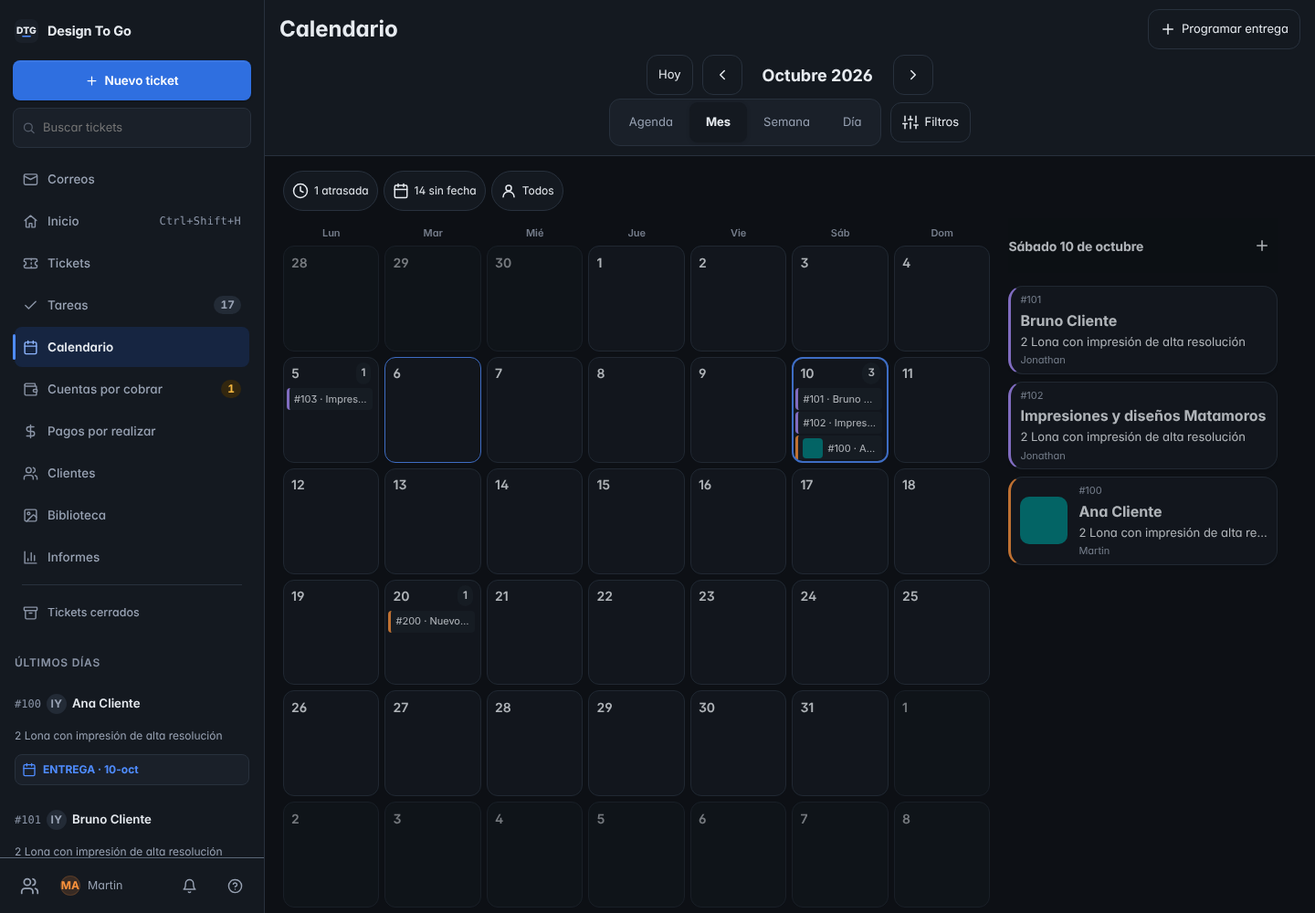
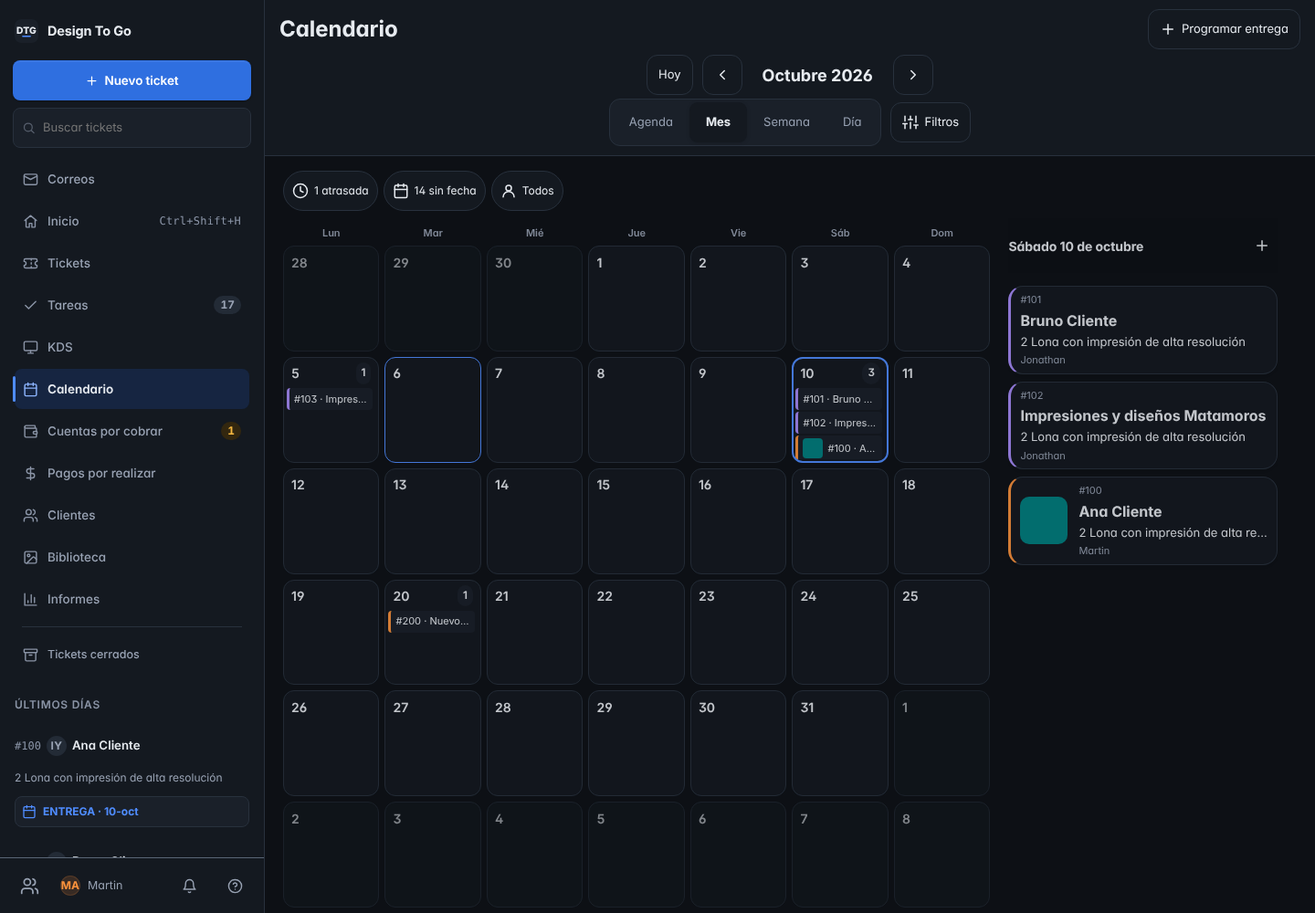
KDS: menu con botones de TV, vistas previas y orden por importancia (flechas/arrastre); docs TAREAS-V2
Claude-Session: https://claude.ai/code/session_0121pbVx9TbC1soBkzZ3mP1e

diff --git a/index.html b/index.html
@@ -4019,7 +4019,7 @@ body{ font-feature-settings:"cv11","ss01"; letter-spacing:-.003em; }
 .dc-row .work-label-add{display:none}.dc-row .work-labels{min-height:0!important;padding:0!important}.dc-row .work-label{font-size:10px;padding:2px 5px}.dc-row .work-label svg{width:12px;height:12px}
 .dc-calendar[data-dc-view="month"] .dc-mini-head{display:none}@media(min-width:881px) and (max-width:1199px){.dc-desktop-workspace{grid-template-columns:minmax(0,1fr)}.dc-selected-day{max-height:none}}
 
-.ws-sidebar-date,.ws-sidebar-owner,.ws-sidebar-photo{display:flex;align-items:center;gap:7px;margin-top:8px;font-size:12px;font-weight:700;color:var(--text)}.ws-sidebar-date{padding:7px;border:1px solid var(--border);border-radius:8px;color:var(--accent);background:var(--surface-2)}.ws-sidebar-date.missing{color:#f6b94b;border-color:#f6b94b66;background:#f6b94b12;font-size:10px;letter-spacing:.025em}.ws-sidebar-date svg{flex-shrink:0;width:16px;height:16px}.ws-sidebar-photo img{width:64px;height:48px;object-fit:cover;border-radius:7px}.ws-sidebar-owner{color:var(--resp-color,var(--text))}.ws-board-options{display:flex;justify-content:flex-end;padding:4px 20px}.ws-board-settings{margin:6px 20px;padding:14px;border:1px solid var(--border);border-radius:14px;background:var(--surface)}.ws-board-settings h2{font-size:16px;margin:0}.ws-board-settings p{font-size:12px;color:var(--text-muted)}.ws-board-setting-row{display:flex;align-items:center;gap:6px;border-top:1px solid var(--border);padding:6px 0}.ws-board-setting-row strong{flex:1;min-width:0;overflow:hidden;text-overflow:ellipsis}.ws-board-setting-row button,.ws-collapse{min-width:44px;min-height:44px}.ws-collapse{position:absolute;right:4px;top:2px;border:0;background:transparent;color:var(--text-muted);border-radius:8px;cursor:pointer}.kanban-column{position:relative}.kanban-column-header{padding-right:46px!important}.kanban-column.ws-collapsed{flex:0 0 72px!important;width:72px!important;min-width:72px!important;overflow:hidden}.ws-collapsed .kanban-column-cards{display:none}.ws-collapsed .kanban-column-header{min-height:210px;display:flex!important;flex-direction:column;padding:48px 6px 10px!important;gap:12px}.ws-collapsed .kanban-column-label{writing-mode:vertical-rl;max-height:150px;white-space:nowrap}.ws-collapsed .kanban-column-draghandle{display:none}.ws-task-focus{margin:8px 10px;padding:10px;border:1px solid color-mix(in srgb,var(--resp-color,var(--accent)) 55%,var(--border));border-radius:12px;background:color-mix(in srgb,var(--accent) 9%,var(--surface))}.ws-task-title{display:flex;gap:6px;align-items:center;font-size:12px;font-weight:800;margin-bottom:6px}.ws-task-title svg{width:16px;height:16px}.ws-task-focus .work-kanban-tasks{border:0;margin:0;padding:0}.ws-task-focus .work-kanban-task>button:last-child{font-size:14px;font-weight:700}.ws-task-focus .work-kanban-task>button:first-child{background:var(--surface-2);border:1px solid var(--border);border-radius:50%}.ws-plan{margin:8px 10px;padding:10px;border:2px solid color-mix(in srgb,var(--accent) 70%,var(--border));border-radius:12px;background:color-mix(in srgb,var(--accent) 12%,var(--surface))}.ws-plan-title{display:flex;align-items:center;gap:6px;font-size:11px;font-weight:900;letter-spacing:.08em;margin-bottom:6px}.ws-plan-title svg{width:16px;height:16px}.ws-plan-title b{margin-left:auto;background:var(--accent);color:#fff;border-radius:99px;padding:1px 8px}.ws-plan-row{display:flex;align-items:center;gap:6px;padding:4px 0;min-height:44px}.ws-plan-row.later{opacity:.55}.ws-plan-row.dragging{opacity:.4}.ws-plan-row.over{outline:2px dashed var(--accent);border-radius:8px}.ws-plan-step{flex:0 0 28px;height:28px;border-radius:50%;background:var(--accent);color:#fff;font-weight:900;font-size:15px;display:grid;place-items:center}.ws-plan-dot{flex:0 0 12px;width:12px;height:12px;margin:0 8px;border-radius:50%;background:var(--accent)}.ws-plan-name{flex:1;min-width:0;text-align:left;background:none;border:0;color:var(--text);cursor:pointer;padding:4px}.ws-plan-name strong{display:block;font-size:15px;font-weight:800;white-space:normal}.ws-plan-name small{color:var(--text-muted);font-size:11px}.ws-plan-check,.ws-plan-next,.ws-plan-link{min-width:36px;min-height:36px}.ws-plan-later-label{font-size:10px;font-weight:800;letter-spacing:.08em;color:var(--text-muted);margin:6px 0 0}.ws-plan-free{display:none;margin-top:6px;padding:6px;border:1px dashed var(--border);border-radius:8px;font-size:11px;color:var(--text-muted);text-align:center}.ws-plan:has(.dragging) .ws-plan-free{display:block}.ws-plan-free.over{border-color:var(--accent);color:var(--accent)}.ws-plan-empty{border-color:#ef4444;background:#ef444418}.ws-plan-alert{display:flex;align-items:center;gap:8px;width:100%;min-height:44px;background:none;border:0;color:#ef4444;cursor:pointer;text-align:left}.ws-plan-alert strong{display:block;font-size:14px;font-weight:900}.ws-plan-alert small{font-size:11px}.ws-plan-row.pay{background:#f59e0b22;border-radius:8px;padding-left:6px;outline:2px solid #f59e0b}.ws-pay-wait{color:#b45309;background:#fde68a;border-radius:6px;padding:2px 6px;font-size:11px;letter-spacing:.03em}.ws-pay-total{font-size:20px;font-weight:900;color:var(--text)}.ws-pay-to{font-size:14px;font-weight:900;color:#b45309}.v2-after{display:flex;align-items:center;gap:8px;padding:10px;border:1px solid var(--border);border-radius:10px;font-size:13px}.v2-after input{width:22px;height:22px}.pay-summary{display:grid;grid-template-columns:repeat(3,1fr);gap:8px;margin:8px 20px}.pay-summary>div{padding:12px;border:1px solid var(--border);border-radius:12px;background:var(--surface);display:flex;flex-direction:column}.pay-summary b{font-size:24px}.pay-summary span{font-size:11px;color:var(--text-muted)}.pay-summary .warn{border-color:#f59e0b;background:#f59e0b18}.pay-head-actions{display:flex;gap:8px;flex-wrap:wrap}.pay-list{padding:8px 20px 80px}.pay-h{font-size:12px;letter-spacing:.1em;margin:16px 0 6px;color:var(--text-muted)}.pay-h.urgent{color:#ef4444}.pay-card{border:2px solid var(--border);border-radius:14px;padding:14px;margin:8px 0;background:var(--surface)}.pay-card.noamt{border-color:#f59e0b;background:#f59e0b14}.pay-card.late{border-color:#ef4444}.pay-card.urgent{border-color:#ef4444;background:#ef444418;box-shadow:0 0 0 3px #ef444433}.pay-card.paid{opacity:.6;border-color:#22c55e}.pay-top{display:flex;justify-content:space-between;gap:12px;flex-wrap:wrap}.pay-kind{font-size:10px;font-weight:800;letter-spacing:.08em;color:var(--text-muted)}.pay-who h3{margin:2px 0;font-size:22px;font-weight:900}.pay-money{display:flex;flex-direction:column;align-items:flex-end;gap:4px}.pay-total{font-size:30px;font-weight:900}.pay-cd{font-variant-numeric:tabular-nums;font-weight:900;font-size:15px;padding:3px 8px;border-radius:8px;background:var(--surface-2)}.pay-cd.warn{background:#f59e0b;color:#000}.pay-cd.danger{background:#ef4444;color:#fff;animation:payblink 1s infinite}.pay-cd.closed{background:#7f1d1d;color:#fff}.pay-late,.pay-urg{font-size:11px;font-weight:900;color:#fff;background:#ef4444;border-radius:6px;padding:2px 8px}.pay-done{font-size:11px;font-weight:900;color:#fff;background:#22c55e;border-radius:6px;padding:2px 8px}.pay-ticket{background:none;border:0;color:var(--accent);font-weight:700;cursor:pointer;padding:6px 0;text-align:left}.pay-acct{display:flex;flex-wrap:wrap;gap:12px;margin:8px 0;padding:10px;border-radius:10px;background:var(--surface-2);font-size:14px;font-weight:700}.pay-acct small{display:block;font-size:10px;color:var(--text-muted);font-weight:600}.pay-acct-empty{font-weight:500;color:var(--text-muted)}.pay-copy,.pay-link{border:0;background:none;color:var(--accent);font-weight:800;cursor:pointer;font-size:12px}.pay-actions{display:flex;gap:8px;flex-wrap:wrap;margin-top:10px}.pay-paid{min-height:48px;font-size:16px;font-weight:900;background:#22c55e!important;border-color:#22c55e!important;color:#000!important}.pay-amt-edit{display:flex;gap:8px;flex-wrap:wrap;margin:8px 0}.pay-amt-edit input{flex:1;min-width:140px;padding:10px;font-size:18px;border-radius:10px;border:1px solid var(--border);background:var(--surface-2);color:var(--text)}.pay-form{margin:8px 20px;padding:14px;border:1px solid var(--border);border-radius:14px;background:var(--surface);display:grid;gap:10px}.pay-form label{display:grid;gap:4px;font-size:12px;font-weight:700}.pay-fichas{display:grid;gap:8px}.pay-ficha{display:flex;justify-content:space-between;align-items:center;gap:8px;padding:10px;border:1px solid var(--border);border-radius:12px;background:var(--surface)}.pay-ficha small{display:block;color:var(--text-muted);font-size:11px}#pay-urgent-bar{position:fixed;top:0;left:0;right:0;height:40px;z-index:3000;display:flex;align-items:center;justify-content:center;gap:24px;background:#b91c1c;color:#fff;font-size:14px;cursor:pointer;overflow:hidden;white-space:nowrap}#pay-urgent-bar .pay-bar-cd{font-variant-numeric:tabular-nums;font-weight:900;background:#000;border-radius:6px;padding:1px 8px}body.has-pay-bar .app{height:calc(100dvh - 40px);margin-top:40px}@keyframes payblink{50%{opacity:.55}}@media(max-width:880px){.pay-summary,.pay-list,.pay-form{margin-left:10px;margin-right:10px}.pay-list{padding:8px 10px 80px}.pay-total{font-size:26px}#pay-urgent-bar{font-size:12px;gap:10px}}.cob-aging{display:block;margin:0 20px 8px}.cob-summary{grid-template-columns:repeat(4,1fr)}.cob-summary .bad{border-color:#ef4444;background:#ef444418}.cob-tabs{padding:0 20px;margin:8px 0}.cob-card{border:2px solid var(--border);border-radius:14px;padding:14px;margin:10px 0;background:var(--surface)}.cob-card.over{border-color:#ef4444;background:#ef444414}.cob-top{display:flex;justify-content:space-between;gap:12px;flex-wrap:wrap}.cob-top h3{margin:0;font-size:20px;font-weight:900}.cob-top small{color:var(--text-muted);font-size:12px}.cob-money{display:flex;flex-direction:column;align-items:flex-end;gap:4px}.cob-money b{font-size:28px;font-weight:900}.cob-flag{font-size:11px;font-weight:900;border-radius:6px;padding:2px 8px;color:#fff}.cob-flag.red{background:#ef4444}.cob-flag.amber{background:#f59e0b;color:#000}.cob-flag.green{background:#22c55e;color:#000}.cob-tickets{margin:8px 0;display:grid;gap:4px}.cob-t{display:grid;grid-template-columns:auto 1fr auto auto auto;gap:10px;align-items:center;padding:6px 0;border-top:1px solid var(--border);font-size:13px}.cob-t-last{color:var(--text-muted);font-size:11px;max-width:220px;overflow:hidden;text-overflow:ellipsis;white-space:nowrap}.cob-actions{display:flex;gap:8px;flex-wrap:wrap}.cob-unk{margin:8px 20px}#cxc-scroll .cob-card,#cxc-scroll .section-title{margin-left:0}@media(max-width:880px){.cob-summary{grid-template-columns:repeat(2,1fr)}.cob-tabs{padding:0 10px}.cob-t{grid-template-columns:auto 1fr auto}.cob-t-last{display:none}}.ws-connection-dot{position:fixed!important;bottom:12px!important;right:12px!important;left:auto!important;top:auto!important;padding:0!important;width:28px;height:28px;background:transparent!important;border:0!important;box-shadow:none!important;z-index:1000}.ws-connection-dot button{display:grid;place-items:center;width:28px;height:28px;border:0;background:transparent;border-radius:50%;cursor:pointer}.ws-connection-dot .rt-badge-dot{width:8px;height:8px;background:#ef4444;box-shadow:0 0 0 3px #ef444420}.ws-gantt{padding:16px 20px;min-width:0}.ws-gantt-toolbar{display:flex;align-items:center;gap:12px;flex-wrap:wrap}.ws-gantt-toolbar h2{margin:0 auto 0 0;font-size:20px}.ws-gantt-toolbar label{font-size:12px;display:flex;align-items:center;gap:6px}.ws-gantt-toolbar select{min-height:44px;max-width:100%;background:var(--surface);border:1px solid var(--border);border-radius:10px;color:var(--text);padding:8px}.ws-gantt-stats{display:flex;flex-wrap:wrap;gap:8px;margin:12px 0}.ws-gantt-stats>span{padding:10px;border:1px solid var(--border);border-radius:10px;font-size:12px;background:var(--surface)}.ws-gantt-stats strong{font-size:16px;color:var(--accent);margin-right:4px}.ws-gantt-axis{display:grid;grid-template-columns:250px minmax(0,1fr);padding:8px 0;font-size:10px;color:var(--text-muted);position:sticky;top:0;background:var(--bg);z-index:2}.ws-gantt-axis>div{display:flex;justify-content:space-between;gap:4px}.ws-gantt-row{display:grid;grid-template-columns:250px minmax(0,1fr);gap:8px;width:100%;min-height:72px;border:0;border-bottom:1px solid var(--border);color:var(--text);background:transparent;text-align:left;padding:9px 0;cursor:pointer;align-items:center}.ws-gantt-label{display:flex;flex-direction:column;gap:3px;min-width:0}.ws-gantt-label strong{white-space:nowrap;overflow:hidden;text-overflow:ellipsis;font-size:13px}.ws-gantt-label small{font-size:11px;color:var(--text-muted)}.ws-gantt-track{position:relative;display:block;height:36px;background:repeating-linear-gradient(to right,var(--border) 0,var(--border) 1px,transparent 1px,transparent 25%);border-bottom:1px solid var(--border)}.ws-gantt-bar{position:absolute;top:8px;height:20px;border-radius:5px;min-width:4px;max-width:100%;background:var(--resp-color,var(--accent))}.ws-gantt-bar.active{border:1px dashed var(--text);opacity:.8}.ws-gantt-bar.cancelled{background:var(--text-muted);opacity:.35}.ws-gantt-promise{position:absolute;top:2px;height:32px;width:2px;background:#f6b94b}.ws-gantt-row:hover{background:var(--surface-2)}
+.ws-sidebar-date,.ws-sidebar-owner,.ws-sidebar-photo{display:flex;align-items:center;gap:7px;margin-top:8px;font-size:12px;font-weight:700;color:var(--text)}.ws-sidebar-date{padding:7px;border:1px solid var(--border);border-radius:8px;color:var(--accent);background:var(--surface-2)}.ws-sidebar-date.missing{color:#f6b94b;border-color:#f6b94b66;background:#f6b94b12;font-size:10px;letter-spacing:.025em}.ws-sidebar-date svg{flex-shrink:0;width:16px;height:16px}.ws-sidebar-photo img{width:64px;height:48px;object-fit:cover;border-radius:7px}.ws-sidebar-owner{color:var(--resp-color,var(--text))}.ws-board-options{display:flex;justify-content:flex-end;padding:4px 20px}.ws-board-settings{margin:6px 20px;padding:14px;border:1px solid var(--border);border-radius:14px;background:var(--surface)}.ws-board-settings h2{font-size:16px;margin:0}.ws-board-settings p{font-size:12px;color:var(--text-muted)}.ws-board-setting-row{display:flex;align-items:center;gap:6px;border-top:1px solid var(--border);padding:6px 0}.ws-board-setting-row strong{flex:1;min-width:0;overflow:hidden;text-overflow:ellipsis}.ws-board-setting-row button,.ws-collapse{min-width:44px;min-height:44px}.ws-collapse{position:absolute;right:4px;top:2px;border:0;background:transparent;color:var(--text-muted);border-radius:8px;cursor:pointer}.kanban-column{position:relative}.kanban-column-header{padding-right:46px!important}.kanban-column.ws-collapsed{flex:0 0 72px!important;width:72px!important;min-width:72px!important;overflow:hidden}.ws-collapsed .kanban-column-cards{display:none}.ws-collapsed .kanban-column-header{min-height:210px;display:flex!important;flex-direction:column;padding:48px 6px 10px!important;gap:12px}.ws-collapsed .kanban-column-label{writing-mode:vertical-rl;max-height:150px;white-space:nowrap}.ws-collapsed .kanban-column-draghandle{display:none}.ws-task-focus{margin:8px 10px;padding:10px;border:1px solid color-mix(in srgb,var(--resp-color,var(--accent)) 55%,var(--border));border-radius:12px;background:color-mix(in srgb,var(--accent) 9%,var(--surface))}.ws-task-title{display:flex;gap:6px;align-items:center;font-size:12px;font-weight:800;margin-bottom:6px}.ws-task-title svg{width:16px;height:16px}.ws-task-focus .work-kanban-tasks{border:0;margin:0;padding:0}.ws-task-focus .work-kanban-task>button:last-child{font-size:14px;font-weight:700}.ws-task-focus .work-kanban-task>button:first-child{background:var(--surface-2);border:1px solid var(--border);border-radius:50%}.ws-plan{margin:8px 10px;padding:10px;border:2px solid color-mix(in srgb,var(--accent) 70%,var(--border));border-radius:12px;background:color-mix(in srgb,var(--accent) 12%,var(--surface))}.ws-plan-title{display:flex;align-items:center;gap:6px;font-size:11px;font-weight:900;letter-spacing:.08em;margin-bottom:6px}.ws-plan-title svg{width:16px;height:16px}.ws-plan-title b{margin-left:auto;background:var(--accent);color:#fff;border-radius:99px;padding:1px 8px}.ws-plan-row{display:flex;align-items:center;gap:6px;padding:4px 0;min-height:44px}.ws-plan-row.later{opacity:.55}.ws-plan-row.dragging{opacity:.4}.ws-plan-row.over{outline:2px dashed var(--accent);border-radius:8px}.ws-plan-step{flex:0 0 28px;height:28px;border-radius:50%;background:var(--accent);color:#fff;font-weight:900;font-size:15px;display:grid;place-items:center}.ws-plan-dot{flex:0 0 12px;width:12px;height:12px;margin:0 8px;border-radius:50%;background:var(--accent)}.ws-plan-name{flex:1;min-width:0;text-align:left;background:none;border:0;color:var(--text);cursor:pointer;padding:4px}.ws-plan-name strong{display:block;font-size:15px;font-weight:800;white-space:normal}.ws-plan-name small{color:var(--text-muted);font-size:11px}.ws-plan-check,.ws-plan-next,.ws-plan-link{min-width:36px;min-height:36px}.ws-plan-later-label{font-size:10px;font-weight:800;letter-spacing:.08em;color:var(--text-muted);margin:6px 0 0}.ws-plan-free{display:none;margin-top:6px;padding:6px;border:1px dashed var(--border);border-radius:8px;font-size:11px;color:var(--text-muted);text-align:center}.ws-plan:has(.dragging) .ws-plan-free{display:block}.ws-plan-free.over{border-color:var(--accent);color:var(--accent)}.ws-plan-empty{border-color:#ef4444;background:#ef444418}.ws-plan-alert{display:flex;align-items:center;gap:8px;width:100%;min-height:44px;background:none;border:0;color:#ef4444;cursor:pointer;text-align:left}.ws-plan-alert strong{display:block;font-size:14px;font-weight:900}.ws-plan-alert small{font-size:11px}.ws-plan-row.pay{background:#f59e0b22;border-radius:8px;padding-left:6px;outline:2px solid #f59e0b}.ws-pay-wait{color:#7c2d12;background:#fde68a;border-radius:6px;padding:2px 6px;font-size:11px;letter-spacing:.03em}.ws-pay-total{font-size:20px;font-weight:900;color:var(--text)}.ws-pay-to{font-size:14px;font-weight:900;color:#fbbf24}.v2-after{display:flex;align-items:center;gap:8px;padding:10px;border:1px solid var(--border);border-radius:10px;font-size:13px}.v2-after input{width:22px;height:22px}.pay-summary{display:grid;grid-template-columns:repeat(3,1fr);gap:8px;margin:8px 20px}.pay-summary>div{padding:12px;border:1px solid var(--border);border-radius:12px;background:var(--surface);display:flex;flex-direction:column}.pay-summary b{font-size:24px}.pay-summary span{font-size:11px;color:var(--text-muted)}.pay-summary .warn{border-color:#f59e0b;background:#f59e0b18}.pay-head-actions{display:flex;gap:8px;flex-wrap:wrap}.pay-list{padding:8px 20px 80px}.pay-h{font-size:12px;letter-spacing:.1em;margin:16px 0 6px;color:var(--text-muted)}.pay-h.urgent{color:#ef4444}.pay-card{border:2px solid var(--border);border-radius:14px;padding:14px;margin:8px 0;background:var(--surface)}.pay-card.noamt{border-color:#f59e0b;background:#f59e0b14}.pay-card.late{border-color:#ef4444}.pay-card.urgent{border-color:#ef4444;background:#ef444418;box-shadow:0 0 0 3px #ef444433}.pay-card.paid{opacity:.6;border-color:#22c55e}.pay-top{display:flex;justify-content:space-between;gap:12px;flex-wrap:wrap}.pay-kind{font-size:10px;font-weight:800;letter-spacing:.08em;color:var(--text-muted)}.pay-who h3{margin:2px 0;font-size:22px;font-weight:900}.pay-money{display:flex;flex-direction:column;align-items:flex-end;gap:4px}.pay-total{font-size:30px;font-weight:900}.pay-cd{font-variant-numeric:tabular-nums;font-weight:900;font-size:15px;padding:3px 8px;border-radius:8px;background:var(--surface-2)}.pay-cd.warn{background:#f59e0b;color:#000}.pay-cd.danger{background:#ef4444;color:#fff;animation:payblink 1s infinite}.pay-cd.closed{background:#7f1d1d;color:#fff}.pay-late,.pay-urg{font-size:11px;font-weight:900;color:#fff;background:#ef4444;border-radius:6px;padding:2px 8px}.pay-done{font-size:11px;font-weight:900;color:#fff;background:#22c55e;border-radius:6px;padding:2px 8px}.pay-ticket{background:none;border:0;color:var(--accent);font-weight:700;cursor:pointer;padding:6px 0;text-align:left}.pay-acct{display:flex;flex-wrap:wrap;gap:12px;margin:8px 0;padding:10px;border-radius:10px;background:var(--surface-2);font-size:14px;font-weight:700}.pay-acct small{display:block;font-size:10px;color:var(--text-muted);font-weight:600}.pay-acct-empty{font-weight:500;color:var(--text-muted)}.pay-copy,.pay-link{border:0;background:none;color:var(--accent);font-weight:800;cursor:pointer;font-size:12px}.pay-actions{display:flex;gap:8px;flex-wrap:wrap;margin-top:10px}.pay-paid{min-height:48px;font-size:16px;font-weight:900;background:#22c55e!important;border-color:#22c55e!important;color:#000!important}.pay-amt-edit{display:flex;gap:8px;flex-wrap:wrap;margin:8px 0}.pay-amt-edit input{flex:1;min-width:140px;padding:10px;font-size:18px;border-radius:10px;border:1px solid var(--border);background:var(--surface-2);color:var(--text)}.pay-form{margin:8px 20px;padding:14px;border:1px solid var(--border);border-radius:14px;background:var(--surface);display:grid;gap:10px}.pay-form label{display:grid;gap:4px;font-size:12px;font-weight:700}.pay-fichas{display:grid;gap:8px}.pay-ficha{display:flex;justify-content:space-between;align-items:center;gap:8px;padding:10px;border:1px solid var(--border);border-radius:12px;background:var(--surface)}.pay-ficha small{display:block;color:var(--text-muted);font-size:11px}#pay-urgent-bar{position:fixed;top:0;left:0;right:0;height:40px;z-index:3000;display:flex;align-items:center;justify-content:center;gap:24px;background:#b91c1c;color:#fff;font-size:14px;cursor:pointer;overflow:hidden;white-space:nowrap}#pay-urgent-bar .pay-bar-cd{font-variant-numeric:tabular-nums;font-weight:900;background:#000;border-radius:6px;padding:1px 8px}body.has-pay-bar .app{height:calc(100dvh - 40px);margin-top:40px}@keyframes payblink{50%{opacity:.55}}@media(max-width:880px){.pay-summary,.pay-list,.pay-form{margin-left:10px;margin-right:10px}.pay-list{padding:8px 10px 80px}.pay-total{font-size:26px}#pay-urgent-bar{font-size:12px;gap:10px}}.cob-aging{display:block;margin:0 20px 8px}.cob-summary{grid-template-columns:repeat(4,1fr)}.cob-summary .bad{border-color:#ef4444;background:#ef444418}.cob-tabs{padding:0 20px;margin:8px 0}.cob-card{border:2px solid var(--border);border-radius:14px;padding:14px;margin:10px 0;background:var(--surface)}.cob-card.over{border-color:#ef4444;background:#ef444414}.cob-top{display:flex;justify-content:space-between;gap:12px;flex-wrap:wrap}.cob-top h3{margin:0;font-size:20px;font-weight:900}.cob-top small{color:var(--text-muted);font-size:12px}.cob-money{display:flex;flex-direction:column;align-items:flex-end;gap:4px}.cob-money b{font-size:28px;font-weight:900}.cob-flag{font-size:11px;font-weight:900;border-radius:6px;padding:2px 8px;color:#fff}.cob-flag.red{background:#ef4444}.cob-flag.amber{background:#f59e0b;color:#000}.cob-flag.green{background:#22c55e;color:#000}.cob-tickets{margin:8px 0;display:grid;gap:4px}.cob-t{display:grid;grid-template-columns:auto 1fr auto auto auto;gap:10px;align-items:center;padding:6px 0;border-top:1px solid var(--border);font-size:13px}.cob-t-last{color:var(--text-muted);font-size:11px;max-width:220px;overflow:hidden;text-overflow:ellipsis;white-space:nowrap}.cob-actions{display:flex;gap:8px;flex-wrap:wrap}.cob-unk{margin:8px 20px}#cxc-scroll .cob-card,#cxc-scroll .section-title{margin-left:0}@media(max-width:880px){.cob-summary{grid-template-columns:repeat(2,1fr)}.cob-tabs{padding:0 10px}.cob-t{grid-template-columns:auto 1fr auto}.cob-t-last{display:none}}.kds-menu-top{display:flex;gap:8px;flex-wrap:wrap;padding:0 20px 8px}.kds-menu{padding:8px 20px 80px;display:grid;gap:16px}.kds-menu-board{border:1px solid var(--border);border-radius:14px;padding:14px;background:var(--surface)}.kds-menu-head{display:flex;justify-content:space-between;align-items:center;gap:8px;flex-wrap:wrap}.kds-menu-head h2{margin:0;font-size:18px}.kds-menu-head small{color:var(--text-muted)}.kds-prev{display:grid;grid-template-columns:repeat(auto-fill,minmax(150px,1fr));gap:8px;margin:12px 0;padding:10px;border-radius:10px;background:#0b0d10}.kds-mini{position:relative;padding:8px 8px 8px 30px;border-radius:8px;background:#1b2027;color:#fff;border-left:5px solid #22c55e;display:grid;gap:2px;min-height:76px}.kds-mini b{font-size:13px;line-height:1.15}.kds-mini small{font-size:10px;opacity:.7}.kds-mini i{font-size:9px;font-style:normal;font-weight:900;letter-spacing:.06em;opacity:.9}.kds-mini-n{position:absolute;left:8px;top:8px;font-weight:900;font-size:14px;opacity:.7}.kds-mini.kds-p-urgente{border-left-color:#ef4444;background:#3a1618}.kds-mini.kds-p-pronto{border-left-color:#f59e0b}.kds-mini.kds-p-bloqueado,.kds-mini.kds-p-espera{border-left-color:#9ca3af}.kds-mini-empty{color:#9ca3af;font-size:12px;padding:10px}.kds-ord summary{cursor:pointer;font-weight:700;font-size:13px;padding:6px 0}.kds-ord-list{list-style:none;margin:6px 0 0;padding:0;display:grid;gap:4px}.kds-ord-row{display:flex;align-items:center;gap:8px;padding:8px;border:1px solid var(--border);border-radius:10px;background:var(--surface-2);cursor:grab}.kds-ord-row.over{outline:2px dashed var(--accent)}.kds-ord-row.dragging{opacity:.4}.kds-grip{color:var(--text-muted);letter-spacing:-3px}.kds-ord-n{font-weight:900;min-width:20px}.kds-ord-t{flex:1;min-width:0}.kds-ord-t b{display:block;font-size:13px}.kds-ord-t small{color:var(--text-muted);font-size:11px}@media(max-width:880px){.kds-menu,.kds-menu-top{padding-left:10px;padding-right:10px}}.ws-connection-dot{position:fixed!important;bottom:12px!important;right:12px!important;left:auto!important;top:auto!important;padding:0!important;width:28px;height:28px;background:transparent!important;border:0!important;box-shadow:none!important;z-index:1000}.ws-connection-dot button{display:grid;place-items:center;width:28px;height:28px;border:0;background:transparent;border-radius:50%;cursor:pointer}.ws-connection-dot .rt-badge-dot{width:8px;height:8px;background:#ef4444;box-shadow:0 0 0 3px #ef444420}.ws-gantt{padding:16px 20px;min-width:0}.ws-gantt-toolbar{display:flex;align-items:center;gap:12px;flex-wrap:wrap}.ws-gantt-toolbar h2{margin:0 auto 0 0;font-size:20px}.ws-gantt-toolbar label{font-size:12px;display:flex;align-items:center;gap:6px}.ws-gantt-toolbar select{min-height:44px;max-width:100%;background:var(--surface);border:1px solid var(--border);border-radius:10px;color:var(--text);padding:8px}.ws-gantt-stats{display:flex;flex-wrap:wrap;gap:8px;margin:12px 0}.ws-gantt-stats>span{padding:10px;border:1px solid var(--border);border-radius:10px;font-size:12px;background:var(--surface)}.ws-gantt-stats strong{font-size:16px;color:var(--accent);margin-right:4px}.ws-gantt-axis{display:grid;grid-template-columns:250px minmax(0,1fr);padding:8px 0;font-size:10px;color:var(--text-muted);position:sticky;top:0;background:var(--bg);z-index:2}.ws-gantt-axis>div{display:flex;justify-content:space-between;gap:4px}.ws-gantt-row{display:grid;grid-template-columns:250px minmax(0,1fr);gap:8px;width:100%;min-height:72px;border:0;border-bottom:1px solid var(--border);color:var(--text);background:transparent;text-align:left;padding:9px 0;cursor:pointer;align-items:center}.ws-gantt-label{display:flex;flex-direction:column;gap:3px;min-width:0}.ws-gantt-label strong{white-space:nowrap;overflow:hidden;text-overflow:ellipsis;font-size:13px}.ws-gantt-label small{font-size:11px;color:var(--text-muted)}.ws-gantt-track{position:relative;display:block;height:36px;background:repeating-linear-gradient(to right,var(--border) 0,var(--border) 1px,transparent 1px,transparent 25%);border-bottom:1px solid var(--border)}.ws-gantt-bar{position:absolute;top:8px;height:20px;border-radius:5px;min-width:4px;max-width:100%;background:var(--resp-color,var(--accent))}.ws-gantt-bar.active{border:1px dashed var(--text);opacity:.8}.ws-gantt-bar.cancelled{background:var(--text-muted);opacity:.35}.ws-gantt-promise{position:absolute;top:2px;height:32px;width:2px;background:#f6b94b}.ws-gantt-row:hover{background:var(--surface-2)}
 @media(max-width:880px){.ws-board-options{padding:4px 10px}.ws-board-settings{margin:6px 10px}.ws-board-setting-row{flex-wrap:wrap}.ws-board-setting-row strong{min-width:90px}.kanban-column:not(.ws-collapsed) .ws-collapse{top:2px;right:4px}.ws-gantt{padding:10px}.ws-gantt-toolbar{gap:6px}.ws-gantt-toolbar h2{width:100%;font-size:18px}.ws-gantt-toolbar label{flex-wrap:wrap;max-width:100%}.ws-gantt-toolbar select{font-size:16px}.ws-gantt-axis{grid-template-columns:minmax(0,1fr)}.ws-gantt-axis>span{display:none}.ws-gantt-row{grid-template-columns:minmax(0,1fr);gap:6px;padding:10px 0}.ws-gantt-label strong{font-size:14px}.ws-gantt-track{height:30px}.ws-gantt-bar{top:5px}.ws-task-focus{padding:8px;margin:6px}.ws-collapse{background:var(--surface)}}
 
 @media(min-width:881px){.wa-home .sidebar:not(.open){display:flex!important}.wa-home .sidebar.open{position:relative;inset:auto;width:290px;box-shadow:none}.wa-home .sidebar-backdrop{display:none!important}.tickets-explorer-scroll-kanban .kanban-board{align-items:flex-start}.kanban-column{height:auto!important}.kanban-column-cards{flex:1}.kanban-column-header{top:0;z-index:8}.ws-collapse{position:sticky;top:44px;align-self:flex-end;margin-top:-40px;margin-bottom:8px}}
@@ -5888,7 +5888,7 @@ async function fetchAllState(opts){
     var t = byTicket[row.ticket_id]; if(!t) return;
     t.accessProfileIds.push(row.profile_id);
   });
-  var settings = { queSigueOptions: [], teamNames: [], operacionTipos: [], opsProviders: [], payeeDetails: {}, docTerms: {} };
+  var settings = { queSigueOptions: [], teamNames: [], operacionTipos: [], opsProviders: [], payeeDetails: {}, kdsOrder: {}, docTerms: {} };
   settingsRows.forEach(function(row){
     if(row.key === "que_sigue_options") settings.queSigueOptions = row.values || [];
     if(row.key === "team_names") settings.teamNames = row.values || [];
@@ -5898,6 +5898,7 @@ async function fetchAllState(opts){
       if(parts.length===3 && name && DTGOps.providers[parts[1]]) settings.opsProviders.push({group:parts[1],id:parts[2],name:name});
     }
     if(row.key && row.key.indexOf('ops_payee_v1:')===0){ try{ settings.payeeDetails[row.key.slice(13)] = JSON.parse((row.values||[])[0]||'{}'); }catch(e){} }
+    if(row.key && row.key.indexOf('kds_order_v1:')===0){ settings.kdsOrder[row.key.slice(13)] = row.values || []; }
     if(row.key === "operacion_tipos") settings.operacionTipos = row.values || [];
     if(row.key && row.key.indexOf("doc_terms_") === 0) settings.docTerms[row.key.slice(10)] = row.values || [];
     if(row.key === "doc_quote_valid_days") settings.quoteValidDays = parseInt((row.values || [])[0], 10) || null;
@@ -27803,6 +27804,36 @@ document.addEventListener('click',async function(e){var b=e.target.closest&&e.ta
 /* Un entregado con saldo vive solo en Cobranza: sale del Kanban (salvo que se busque o se filtre "entregado"). */
 var cobFiltered=ticketsExplorerFiltered;
 ticketsExplorerFiltered=function(){var list=cobFiltered(),ui=UI.ticketsExplorer||{};if((UI.search||'').trim()||ui.estado==='entregado'||ui.estado==='cerrado')return list;return list.filter(function(t){if(ticketEstado(t)!=='entregado')return true;var f=ticketFinancials(t);return !(f.saldo==null||f.saldo>CXC_EPS);});};
+/* ===== Menú KDS: botones para abrir cada TV, vista previa de cada una y orden por importancia =====
+   El orden manual vive en app_settings (kds_order_v1:<tablero>, values = ids de tarea). Lo urgente y lo vencido siempre
+   va arriba; el resto sigue el orden que tú dejas; lo nuevo entra al final de lo ordenado. */
+UI.kdsMenu={drag:null};
+function kdsOrderOf(board){return ((STATE.meta&&STATE.meta.kdsOrder)||{})[board]||[];}
+function kdsRaw(key){if(key==='cxc')return kdsCxc();if(key==='pagos')return kdsPagos();var b=KDS_BOARDS.find(function(x){return x.key===key;});return kdsTasks(b?b.area:null);}
+function kdsApplyOrder(items,key){var order=kdsOrderOf(key);if(!order.length||key==='cxc')return items;var idx={};order.forEach(function(id,i){idx[id]=i;});
+ return items.map(function(it,i){return {it:it,i:i};}).sort(function(a,b){var ra=a.it.prio.rank===0?0:1,rb=b.it.prio.rank===0?0:1;if(ra!==rb)return ra-rb;var ia=a.it.id in idx?idx[a.it.id]:1e6+a.i,ib=b.it.id in idx?idx[b.it.id]:1e6+b.i;if(ia!==ib)return ia-ib;return a.i-b.i;}).map(function(x){return x.it;});}
+function kdsItemsForBoard(key){return kdsApplyOrder(kdsRaw(key),key);}
+kdsItems=function(){return kdsItemsForBoard(kdsBoard().key);};
+function kdsMiniCard(it,i){var v=kdsVista(it);return '<div class="kds-mini kds-p-'+it.prio.key+'"><span class="kds-mini-n">'+(i+1)+'</span><b>'+escapeHtml(v.accion)+'</b><small>'+escapeHtml(v.cliente)+' · #'+it.t.seq+'</small><i>'+escapeHtml(it.prio.label)+'</i></div>';}
+function kdsMenuCount(b,items){var saved=UI.kds.board;UI.kds.board=b.key;try{return kdsCuenta(items);}finally{UI.kds.board=saved;}}
+function kdsMenuBoard(b){var items=kdsItemsForBoard(b.key),canOrder=b.key!=='cxc',prev=items.slice(0,6).map(kdsMiniCard).join('')||'<div class="kds-mini-empty">'+escapeHtml(b.vacio)+'</div>';
+ var rows=canOrder?items.map(function(it,i){var v=kdsVista(it);return '<li class="kds-ord-row" draggable="true" data-kds-ord="'+escapeHtml(it.id)+'" data-board="'+b.key+'"><span class="kds-grip" aria-hidden="true">&#8942;&#8942;</span><span class="kds-ord-n">'+(i+1)+'</span><span class="kds-ord-t"><b>'+escapeHtml(v.accion)+'</b><small>'+escapeHtml(v.cliente)+' · #'+it.t.seq+(it.prio.rank===0?' · '+escapeHtml(it.prio.label)+' (siempre arriba)':'')+'</small></span><button type="button" class="icon-btn" data-kdsm="up" data-board="'+b.key+'" data-id="'+escapeHtml(it.id)+'" aria-label="Subir">&#9650;</button><button type="button" class="icon-btn" data-kdsm="down" data-board="'+b.key+'" data-id="'+escapeHtml(it.id)+'" aria-label="Bajar">&#9660;</button></li>';}).join(''):'';
+ return '<section class="kds-menu-board"><div class="kds-menu-head"><div><h2>TV de '+escapeHtml(b.label)+'</h2><small>'+escapeHtml(kdsMenuCount(b,items))+'</small></div><a class="btn btn-primary" href="?display='+b.key+'" target="_blank" rel="noopener">'+icon('monitor')+' Ver TV de '+escapeHtml(b.corto)+'</a></div><div class="kds-prev">'+prev+'</div>'+(canOrder&&items.length?'<details class="kds-ord"'+(UI.kdsMenu.open===b.key?' open':'')+'><summary data-kdsm-sum="'+b.key+'">Ordenar por importancia · arrastra o usa las flechas</summary><ol class="kds-ord-list">'+rows+'</ol></details>':'')+'</section>';}
+function renderKdsMenuView(){var order=['produccion','planeacion','pagos','cxc'];return '<div class="home-header"><div class="view-title">'+icon('monitor',{cls:'view-title-ic'})+'<h1>KDS · Pantallas del taller</h1></div></div><div class="kds-menu-top">'+order.map(function(k){var b=KDS_BOARDS.find(function(x){return x.key===k;});return '<a class="btn btn-ghost" href="?display='+k+'" target="_blank" rel="noopener">'+icon('monitor')+' Ver TV de '+escapeHtml(b.corto)+'</a>';}).join('')+'</div><div class="page-scroll kds-menu">'+order.map(function(k){return kdsMenuBoard(KDS_BOARDS.find(function(x){return x.key===k;}));}).join('')+'</div>';}
+function goToKds(){UI.selectedTicketId=null;UI.mainView='kds';UI.selectedClienteId=null;UI.composer=null;UI.sidebarOpen=false;UI.deepLinkNotFound=false;saveUi();render();}
+REAL_VIEWS.push('kds');
+var kdsMenuMain=renderMain;renderMain=function(){if(UI.mainView==='kds'&&!UI.selectedTicketId)return renderKdsMenuView();return kdsMenuMain();};
+NAV_ITEMS.splice(NAV_ITEMS.findIndex(function(n){return n.view==='operaciones';})+1,0,{view:'kds',action:'go-kds',icon:'monitor',label:'KDS'});
+async function kdsSaveOrder(board,ids){STATE.meta.kdsOrder=STATE.meta.kdsOrder||{};STATE.meta.kdsOrder[board]=ids;UI.kdsMenu.open=board;render();try{var r=await sb.from('app_settings').update({values:ids}).eq('key','kds_order_v1:'+board).select();if(r.error)throw r.error;if(!r.data||!r.data.length){r=await sb.from('app_settings').insert({key:'kds_order_v1:'+board,values:ids});if(r.error)throw r.error;}}catch(e){userError('Guardar orden de la TV',e);}}
+function kdsMenuMove(board,id,delta){var ids=kdsItemsForBoard(board).map(function(x){return x.id;}),i=ids.indexOf(id),j=i+delta;if(i<0||j<0||j>=ids.length)return;ids.splice(j,0,ids.splice(i,1)[0]);kdsSaveOrder(board,ids);}
+document.addEventListener('click',function(e){var b=e.target.closest&&e.target.closest('[data-kdsm],[data-action="go-kds"],[data-kdsm-sum]');if(!b)return;
+ if(b.matches('[data-action="go-kds"]')){e.preventDefault();e.stopImmediatePropagation();goToKds();return;}
+ if(b.hasAttribute('data-kdsm-sum')){UI.kdsMenu.open=b.getAttribute('data-kdsm-sum');return;}
+ e.preventDefault();e.stopImmediatePropagation();kdsMenuMove(b.dataset.board,b.dataset.id,b.dataset.kdsm==='up'?-1:1);},true);
+document.addEventListener('dragstart',function(e){var r=e.target.closest&&e.target.closest('[data-kds-ord]');if(!r)return;UI.kdsMenu.drag={board:r.dataset.board,id:r.dataset.kdsOrd};try{e.dataTransfer.setData('text/plain','kds:'+r.dataset.kdsOrd);e.dataTransfer.effectAllowed='move';}catch(x){}r.classList.add('dragging');},true);
+document.addEventListener('dragover',function(e){var d=UI.kdsMenu.drag,r=d&&e.target.closest&&e.target.closest('[data-kds-ord]');if(!r||r.dataset.board!==d.board)return;e.preventDefault();document.querySelectorAll('.kds-ord-row.over').forEach(function(n){n.classList.remove('over');});r.classList.add('over');},true);
+document.addEventListener('dragend',function(){UI.kdsMenu.drag=null;document.querySelectorAll('.kds-ord-row.over,.kds-ord-row.dragging').forEach(function(n){n.classList.remove('over','dragging');});});
+document.addEventListener('drop',function(e){var d=UI.kdsMenu.drag,r=d&&e.target.closest&&e.target.closest('[data-kds-ord]');if(!r||r.dataset.board!==d.board)return;e.preventDefault();UI.kdsMenu.drag=null;var target=r.dataset.kdsOrd;if(target===d.id)return;var ids=kdsItemsForBoard(d.board).map(function(x){return x.id;});ids.splice(ids.indexOf(d.id),1);ids.splice(ids.indexOf(target),0,d.id);kdsSaveOrder(d.board,ids);},true);
 var uxRow=workTaskRow;workTaskRow=function(t,x){var html=uxRow(t,x);return html.replace('<strong>','<strong>'+icon(uxTaskIcon(x.desc))).replace('</strong>','</strong>'+(uxTaskNote(x)?'<small>'+escapeHtml(uxTaskNote(x))+'</small>':''));};
 document.addEventListener('input',function(e){if(e.target.id==='ux-task-note'&&UI.operaciones.editor){var ed=UI.operaciones.editor;ed.draft=ed.draft||{};ed.draft.note=e.target.value;}});
 document.addEventListener('click',function(e){var pick=e.target.closest&&e.target.closest('[data-action="ops-ed-pick-ticket"]'),choice=e.target.closest&&e.target.closest('[data-ux-task]'),b=e.target.closest&&e.target.closest('[data-ux]');if(pick){e.preventDefault();e.stopImmediatePropagation();UI.uxTicketPreview=pick.dataset.ticket;var hover=document.getElementById('ux-ticket-hover');if(hover)hover.remove();renderKeepingLiveInputs();return;}if(choice){e.preventDefault();var select=document.getElementById('ops-f-desc');select.value=choice.dataset.uxTask;select.dispatchEvent(new Event('change',{bubbles:true}));document.querySelectorAll('[data-ux-task]').forEach(function(n){n.setAttribute('aria-pressed',n===choice);});return;}if(b){e.preventDefault();e.stopImmediatePropagation();if(b.dataset.ux==='preview-select'){UI.operaciones.editor.ticketId=b.dataset.ticket;}UI.uxTicketPreview=null;renderKeepingLiveInputs();}},true);

diff --git a/TAREAS-V2.md b/TAREAS-V2.md
@@ -1,12 +1,28 @@
-# Tareas v2
+# Tareas v2, Pagos, Cobranza y KDS
 
-- **Pasos en cadena o en paralelo:** `tareas.depends_on` (migración `20261006000001_tareas_depends_on.sql`). NULL = paralela (punto); con valor = va después (número 1·2·3). Sin ciclos.
-- **Kanban:** bloque TAREAS en cada tarjeta, `SIN TAREA` en rojo si no hay ninguna, botón ↳ (agregar siguiente), ⇅ (hacer paralela), arrastrar sobre otra (= después) o a "Soltar aquí = en paralelo".
-- **Catálogo único** (un solo selector agrupado): Cliente, Diseño, Compras y proveedores, Taller, Entrega. Se quitaron COBRAR, IMPRIMIR LONA, ENVIAR DTF/DTF UV/TABLOIDES, ORDENAR EN LINEA/A MONTERREY, COMPRAR MATERIAL. Las tareas ya creadas conservan su nombre.
-- **ORDENAR MATERIAL** pide vendedor (se paga antes) y crea `PAGAR Y ENVIAR COMPROBANTE` encadenada: "TOTAL AÚN NO DISPONIBLE" hasta capturar el total; luego total grande y empresa.
-- **ENVIAR TRABAJO CON PROVEEDOR** pide proveedor (se paga después) y crea `RECOGER` encadenada.
-- `CONSEGUIR ARCHIVOS DEL CLIENTE` → `CONFIRMAR LA CALIDAD (LETS ENHANCE)`; `ENVIAR DISENO` → `CONSEGUIR APROBACION`.
-- Vendedores y proveedores: listas en `ops-menu.js` (`vendor`, `provider`); OTRO (solo esa tarea) y AGREGAR NUEVO (se guarda en `app_settings`, `ops_provider_v1:<grupo>:<id>`).
-- Las tareas de pago no salen en las TV de Producción/Planeación; las bloqueadas tampoco.
-- Pendiente (fases del plan): Cobranza, menú/tabla Pagos por realizar (`payees`, `task_payments`, URGENTE), menú KDS.
-- Pruebas: `TASKS-PLAN-QA.cjs`, `TASKS-CATALOG-QA.cjs`.
+## Tareas
+- **Pasos en cadena o en paralelo:** `tareas.depends_on` (migración `20261006000001_tareas_depends_on.sql`). NULL = paralela (punto); con valor = va después (número 1·2·3). Sin ciclos. Botones ↳ (agregar siguiente), ⇅ (hacer paralela), arrastrar sobre otra (= después) o a "Soltar aquí = en paralelo", y la palomita "Va después de la anterior" dentro del editor.
+- **Kanban:** bloque TAREAS en cada tarjeta, `SIN TAREA` en rojo si no hay ninguna. Los entregados con saldo ya no salen en el Kanban (viven en Cobranza).
+- **Catálogo único** agrupado (Cliente, Diseño, Compras y proveedores, Taller, Entrega). Se quitaron COBRAR (de tickets), IMPRIMIR LONA, ENVIAR DTF/DTF UV/TABLOIDES, ORDENAR EN LINEA/A MONTERREY, COMPRAR MATERIAL. Las tareas ya creadas conservan su nombre. `/tarea` y `/produccion` abren el editor con la tarea del catálogo.
+- **Automáticas:** CONSEGUIR ARCHIVOS → CONFIRMAR LA CALIDAD (LETS ENHANCE); ENVIAR DISENO → CONSEGUIR APROBACION; ORDENAR MATERIAL (vendedor) → PAGAR Y ENVIAR COMPROBANTE en paralelo; ENVIAR TRABAJO CON PROVEEDOR → RECOGER → PAGAR Y ENVIAR COMPROBANTE.
+- Sin estados ni porcentajes en la TV (se quitó la tecla ESPERAR).
+
+## Pagos por realizar (sin tablas nuevas)
+- La tarea `PAGAR Y ENVIAR COMPROBANTE` guarda empresa, total (`amount`) y `urgent` en `action_path`.
+- Fichas de vendedores/proveedores (banco, titular, cuenta, CLABE, curfew, notas): `app_settings`, clave `ops_payee_v1:<grupo>:<id>`, `values[0]` = JSON. Altas nuevas: `ops_provider_v1:<grupo>:<id>`.
+- Vendedor = se paga antes (aparece al crear ORDENAR MATERIAL). Proveedor = se paga después (aparece al terminar RECOGER).
+- "TOTAL AÚN NO DISPONIBLE" hasta capturar el total; countdown al curfew; URGENTE pone una barra roja arriba del CRM en cualquier pantalla. Todos pueden marcar YA PAGUÉ.
+- Los números de cuenta solo se ven dentro de Pagos por realizar (nunca en el Kanban ni en la TV).
+
+## Cobranza
+- Pestañas **Cobrar hoy / Por cliente / Todos los tickets**. Totales: por cobrar, cobrar hoy, promesas vencidas, cobrado en 7 días.
+- Seguimiento y promesa de pago se guardan en la bitácora del ticket (`tipo sistema`, `kind cobranza`). "Cobrar hoy" = promesa vencida o sin contacto en 3 días (y sin promesa vigente).
+- Por cliente: llamar, WhatsApp con mensaje listo, copiar estado de cuenta, registrar pago.
+
+## KDS
+- Menú **KDS** a la izquierda: botones Ver TV de PRODUCCIÓN / PLANEACIÓN / PAGOS / POR COBRAR, vista previa de cada TV y orden por importancia (flechas o arrastrar).
+- Orden manual en `app_settings` (`kds_order_v1:<tablero>`). Lo urgente/vencido siempre queda arriba.
+- `?display=pagos` abre la TV de Pagos (DONE = pagado, con confirmación).
+
+## Pruebas
+`TASKS-PLAN-QA.cjs`, `TASKS-CATALOG-QA.cjs`, `PAGOS-QA.cjs`, `COBRANZA-QA.cjs`, `KDS-MENU-QA.cjs`.
